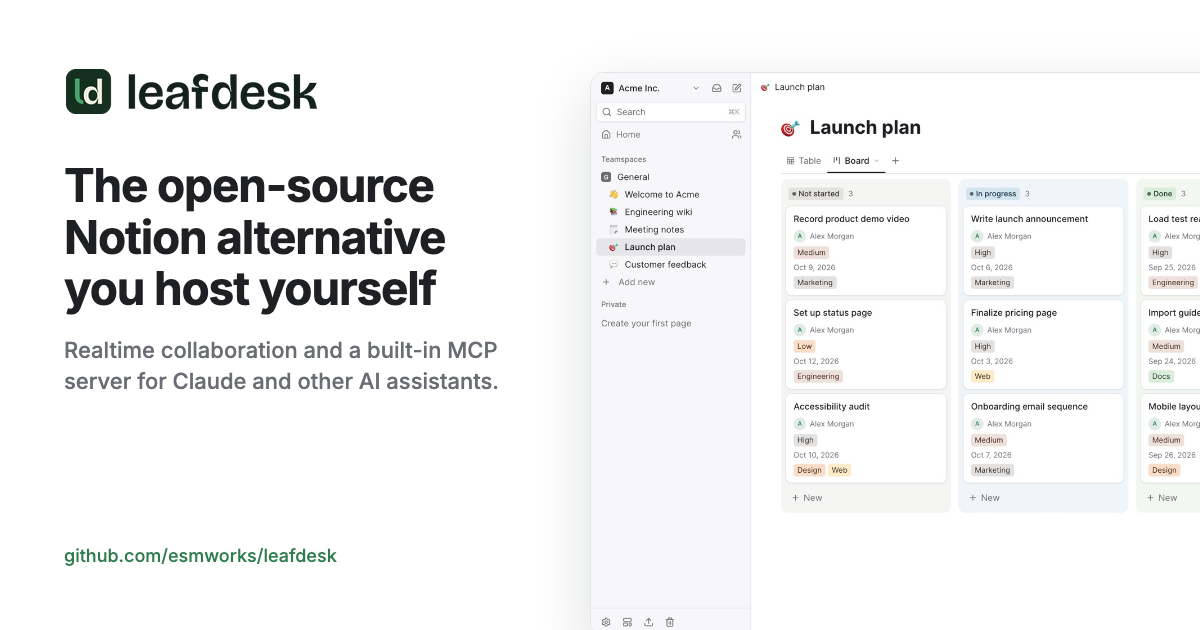
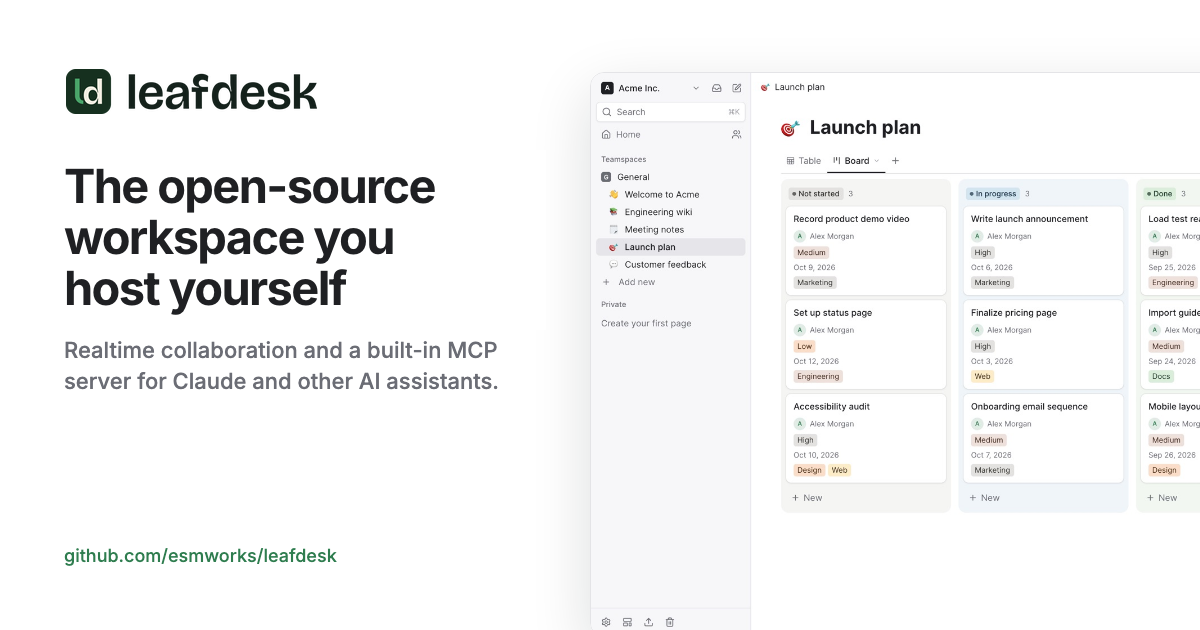
Describe Leafdesk on its own terms in the README and on the website
The README's opening line, the website's title, description, social
preview title and image, structured data and headline now call Leafdesk
an open-source workspace of pages and databases you host yourself. The
headline balances its lines so the last word doesn't sit alone.

Changed region(s): [[0.0308, 0.2714, 0.37, 0.5127]]

diff --git a/site/index.html b/site/index.html
@@ -3,8 +3,8 @@
 <head>
 <meta charset="utf-8">
 <meta name="viewport" content="width=device-width, initial-scale=1">
-<title>Leafdesk: open-source, self-hosted Notion alternative with an MCP server</title>
-<meta name="description" content="Leafdesk is an open-source Notion alternative you run on your own server: pages, databases and realtime collaboration, with a built-in MCP server so Claude and other AI assistants can work in your workspace after you approve them.">
+<title>Leafdesk: open-source, self-hosted pages and databases with an MCP server</title>
+<meta name="description" content="Leafdesk is an open-source workspace you run on your own server: pages, databases and realtime collaboration, with a built-in MCP server so Claude and other AI assistants can work in your workspace after you approve them.">
 <link rel="canonical" href="https://esmworks.github.io/leafdesk/">
 <meta name="color-scheme" content="light dark">
 <meta name="theme-color" content="#ffffff" media="(prefers-color-scheme: light)">
@@ -17,7 +17,7 @@
 
 <meta property="og:type" content="website">
 <meta property="og:site_name" content="Leafdesk">
-<meta property="og:title" content="Leafdesk: open-source, self-hosted Notion alternative">
+<meta property="og:title" content="Leafdesk: the open-source workspace you host yourself">
 <meta property="og:description" content="Pages, databases and realtime collaboration on your own server, with a built-in MCP server for Claude and other AI assistants.">
 <meta property="og:url" content="https://esmworks.github.io/leafdesk/">
 <meta property="og:image" content="https://esmworks.github.io/leafdesk/img/og.png">
@@ -31,7 +31,7 @@
   "@context": "https://schema.org",
   "@type": "SoftwareApplication",
   "name": "Leafdesk",
-  "description": "Open-source, self-hosted Notion alternative with realtime collaboration and a built-in MCP server, so AI assistants can search, read and edit your workspace securely over OAuth.",
+  "description": "Open-source, self-hosted workspace of pages and databases with realtime collaboration and a built-in MCP server, so AI assistants can search, read and edit your workspace securely over OAuth.",
   "url": "https://esmworks.github.io/leafdesk/",
   "applicationCategory": "BusinessApplication",
   "operatingSystem": "Linux, macOS, Windows (Docker); any modern web browser",
@@ -122,7 +122,7 @@
   .hero { padding-top: 72px; padding-bottom: 40px; text-align: center; }
   .hero h1 {
     font-size: clamp(34px, 5.2vw, 56px); line-height: 1.1; letter-spacing: -0.025em;
-    margin: 0 auto 20px; max-width: 16ch; font-weight: 700;
+    margin: 0 auto 20px; max-width: 16ch; font-weight: 700; text-wrap: balance;
   }
   .hero p.lead { font-size: clamp(17px, 2vw, 20px); color: var(--fg-muted); max-width: 680px; margin: 0 auto 32px; }
   .hero .ctas { display: flex; gap: 12px; justify-content: center; flex-wrap: wrap; }
@@ -231,7 +231,7 @@
 
 <main>
   <div class="wrap hero">
-    <h1>The open-source Notion alternative you host yourself</h1>
+    <h1>The open-source workspace you host yourself</h1>
     <p class="lead">Pages, databases and realtime collaboration on your own server, with a built-in
       MCP server so Claude and other AI assistants can search, read and edit your workspace, only
       after you approve them.</p>

diff --git a/README.md b/README.md
@@ -5,9 +5,9 @@
   </picture>
 </h1>
 
-An open-source, self-hostable Notion alternative with realtime collaboration and a built-in
-MCP server, so AI assistants such as Claude can search, read and edit your workspace after you
-approve them over OAuth.
+An open-source, self-hostable workspace of pages and databases with realtime collaboration and a
+built-in MCP server, so AI assistants such as Claude can search, read and edit your workspace
+after you approve them over OAuth.
 
 **Website:** [esmworks.github.io/leafdesk](https://esmworks.github.io/leafdesk/)
 
